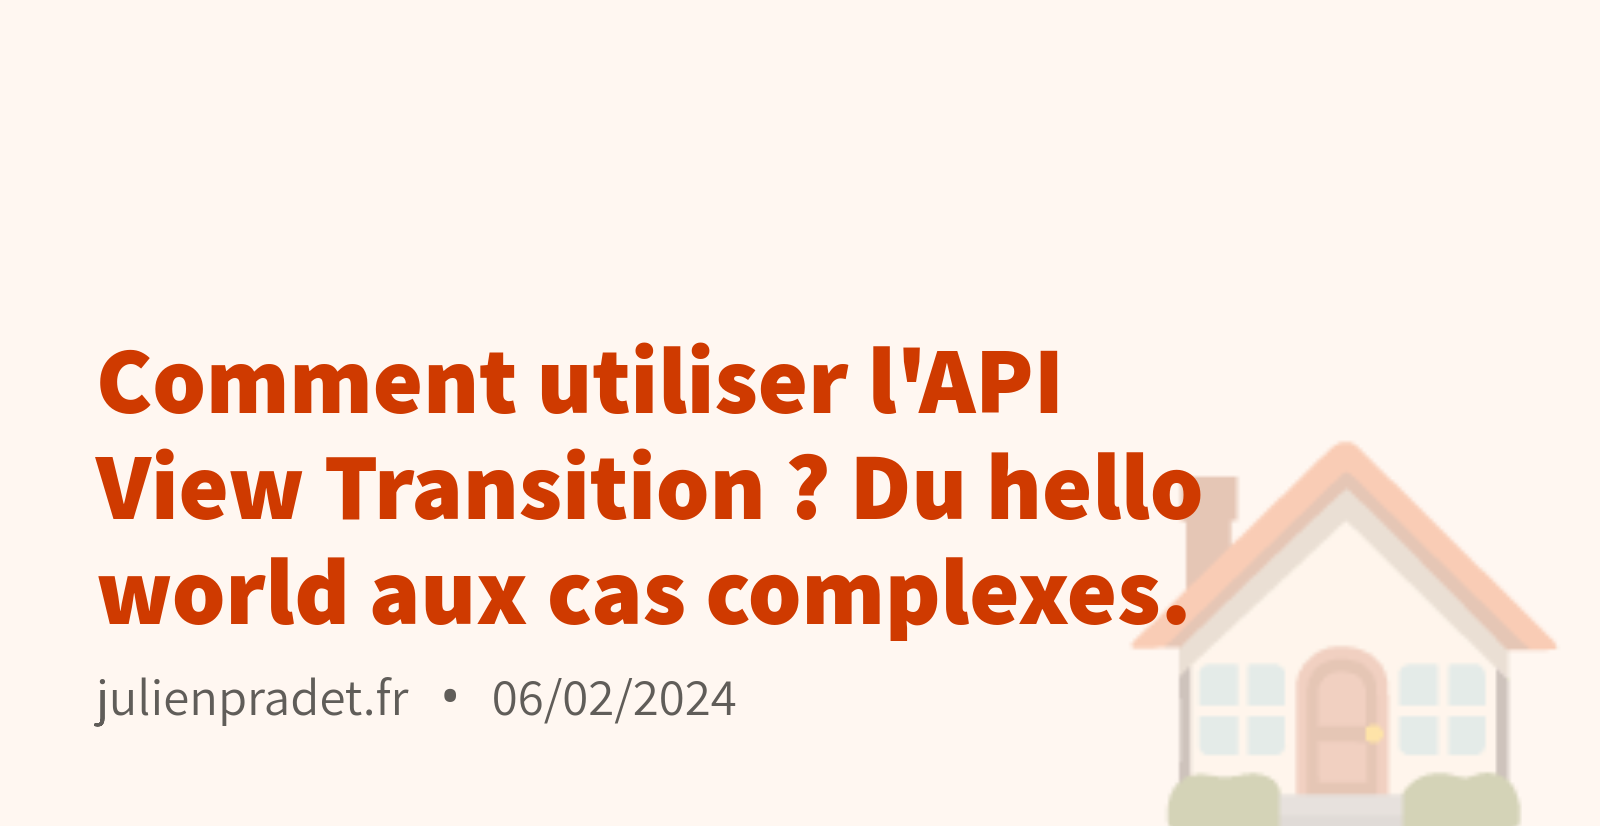
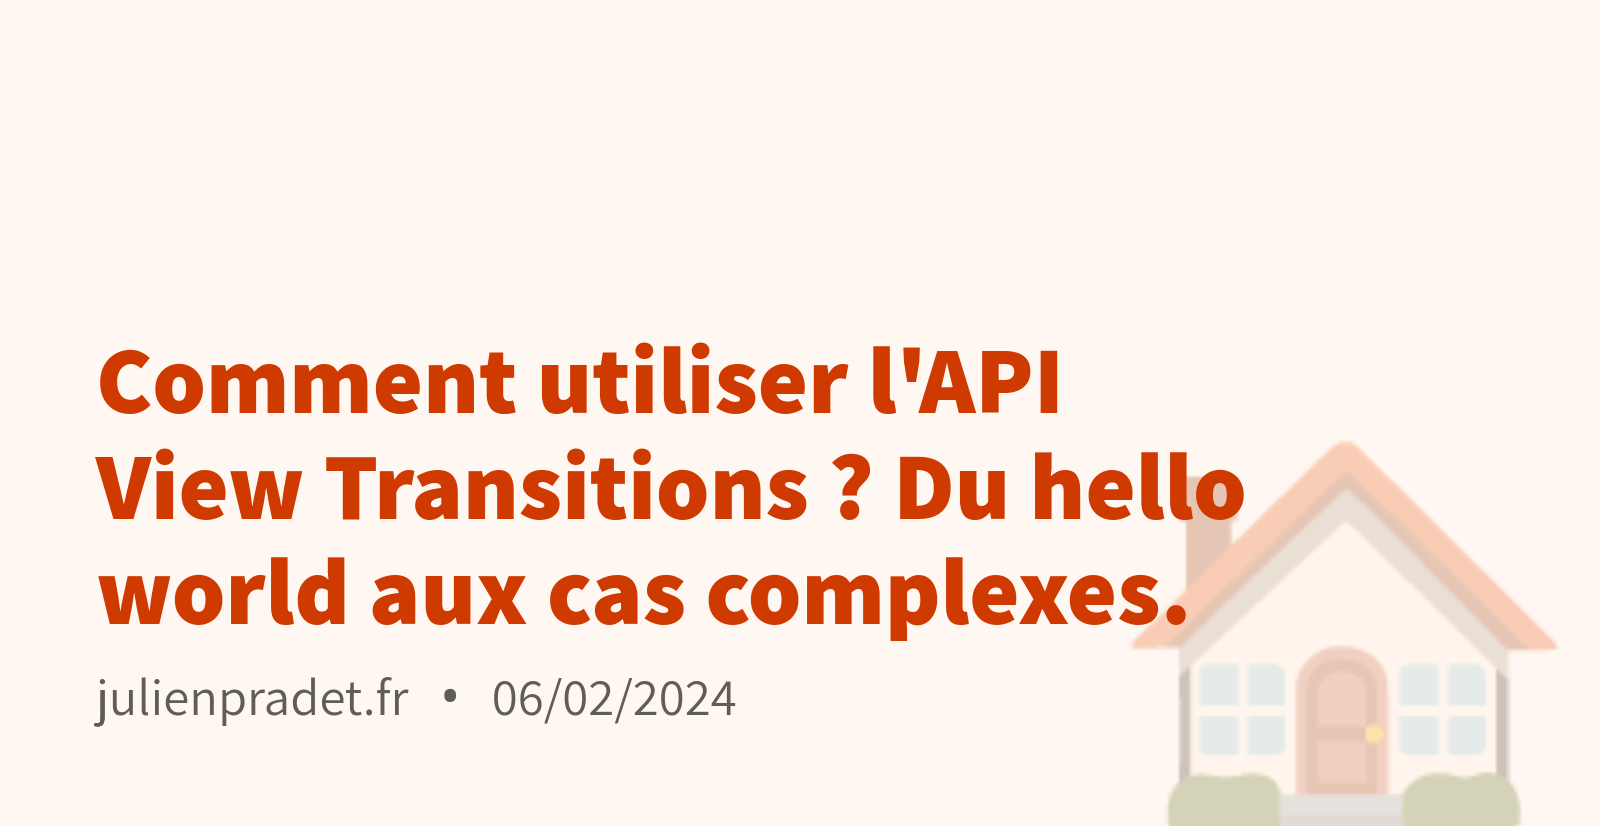
Fix typo in name of API

Changed region(s): [[0.4688, 0.5448, 0.7812, 0.6356]]

diff --git a/src/routes/(blog)/tutoriels/view-transitions/meta.ts b/src/routes/(blog)/tutoriels/view-transitions/meta.ts
@@ -4,7 +4,7 @@ import type { ArticleMeta } from '../../../../components/ArticleMeta';
 const meta: ArticleMeta = {
 	type: 'article',
 	isListed: true,
-	title: "Comment utiliser l'API View Transition ? Du hello world aux cas complexes.",
+	title: "Comment utiliser l'API View Transitions ? Du hello world aux cas complexes.",
 	date: new Date('2024-02-06'),
 	description: `Animer le contenu de son site web, c'est à la fois tellement compliqué et tellement important pour avoir un site quali. A l'aube des View Transitions, ça va peut-être devenir plus simple. Voyons comment ça fonctionne en détail, au delà du hello world.`,
 	category: ArticleCategory['tutoriels']

diff --git a/src/routes/(blog)/tutoriels/sticky-header-avec-hauteur-dynamique-performant/content.md b/src/routes/(blog)/tutoriels/sticky-header-avec-hauteur-dynamique-performant/content.md
@@ -1,7 +1,7 @@
 En ce moment il y a deux nouvelles APIs qui sont en train d'arriver dans les navigateurs qui font fureur :
 
 - [Scroll Driven Animations](https://scroll-driven-animations.style/)
-- [View Transition API](https://developer.mozilla.org/en-US/docs/Web/API/View_Transitions_API)
+- [View Transitions API](https://developer.mozilla.org/en-US/docs/Web/API/View_Transitions_API)
 
 > 💡 Pour info ces APIs sont disponibles sur Chrome uniquement pour le moment. Mais dans les 2 cas, Webkit (= Safari) et Gecko (= Firefox) sont d'accord avec la proposition, donc ça va finir par arriver aussi.
 
